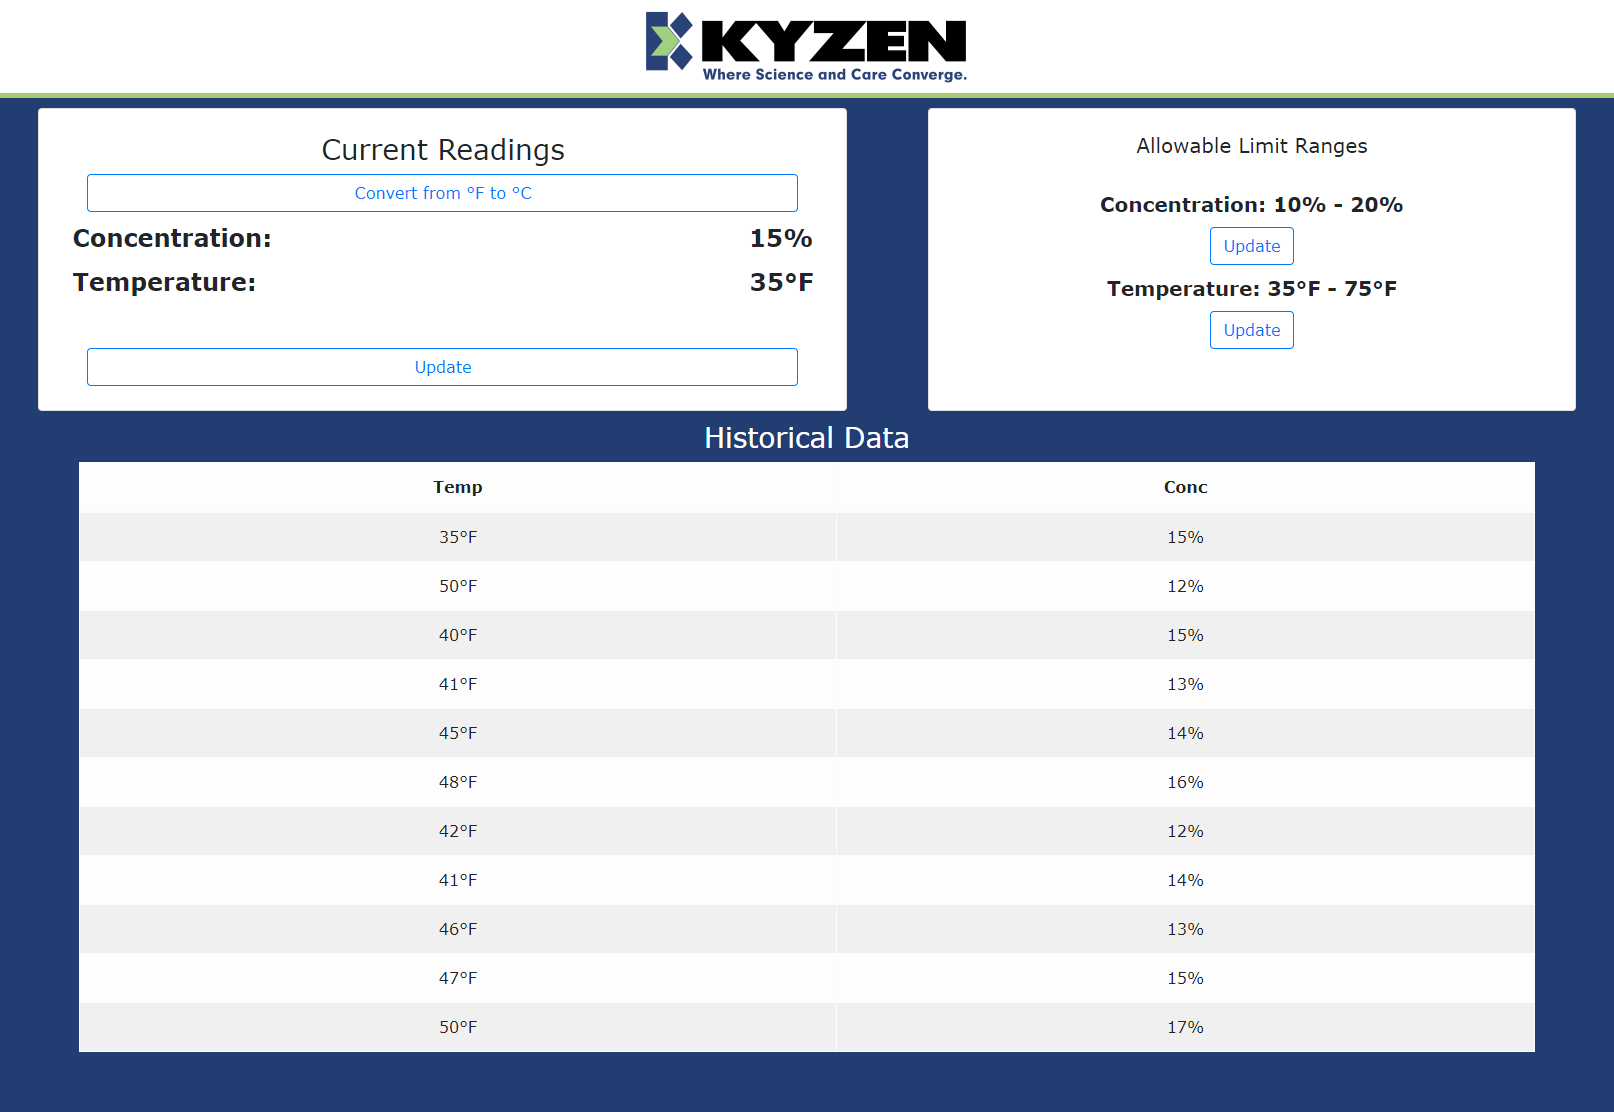
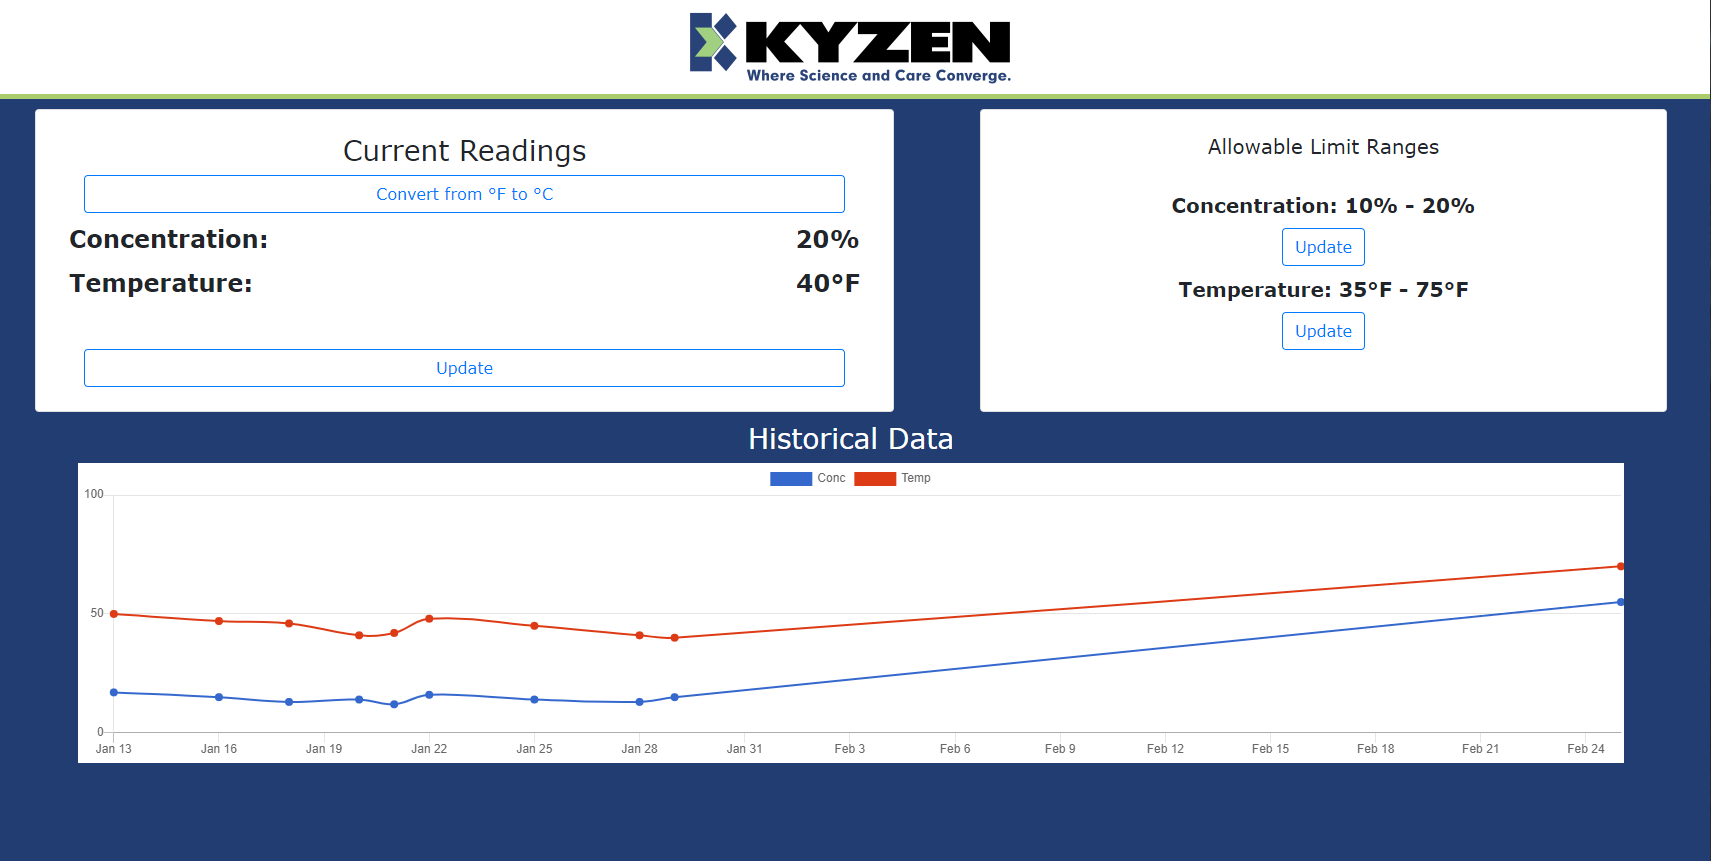
updated readme and screenshots

diff --git a/src/components/HistoricalData/HistoricalData.js b/src/components/HistoricalData/HistoricalData.js
@@ -36,18 +36,6 @@ const HistoricalData = (props) => {
         <div className="chartContainer">
             <LineChart data={chartData} />
         </div>
-        {/* <Table striped bordered hover variant="light">
-            <thead>
-                <tr>
-                    <th>Temp</th>
-                    <th>Conc</th>
-                </tr>
-            </thead>
-            <tbody>
-                {props.toggleTemp === false && data.length > 0 ? (data.map((entry) => <tr><td key={entry.id}>{entry.temp}°F</td><td>{entry.conc}%</td></tr>))
-                : (data.map((entry) => <tr><td key={entry.id}>{Math.round((entry.temp - 32) / 1.8)}°C</td><td>{entry.conc}%</td></tr>))}
-            </tbody>
-        </Table> */}
         </div>
     )
 }

diff --git a/README.md b/README.md
@@ -10,6 +10,7 @@
 * HTML5
 * React-Bootstrap
 * [React-Numpad](https://www.npmjs.com/package/react-numpad) for keyboardless entry
+* [Chartkick](https://chartkick.com/) for graph
 * Axios
 * Firebase (JSON Database and Hosting)
 
